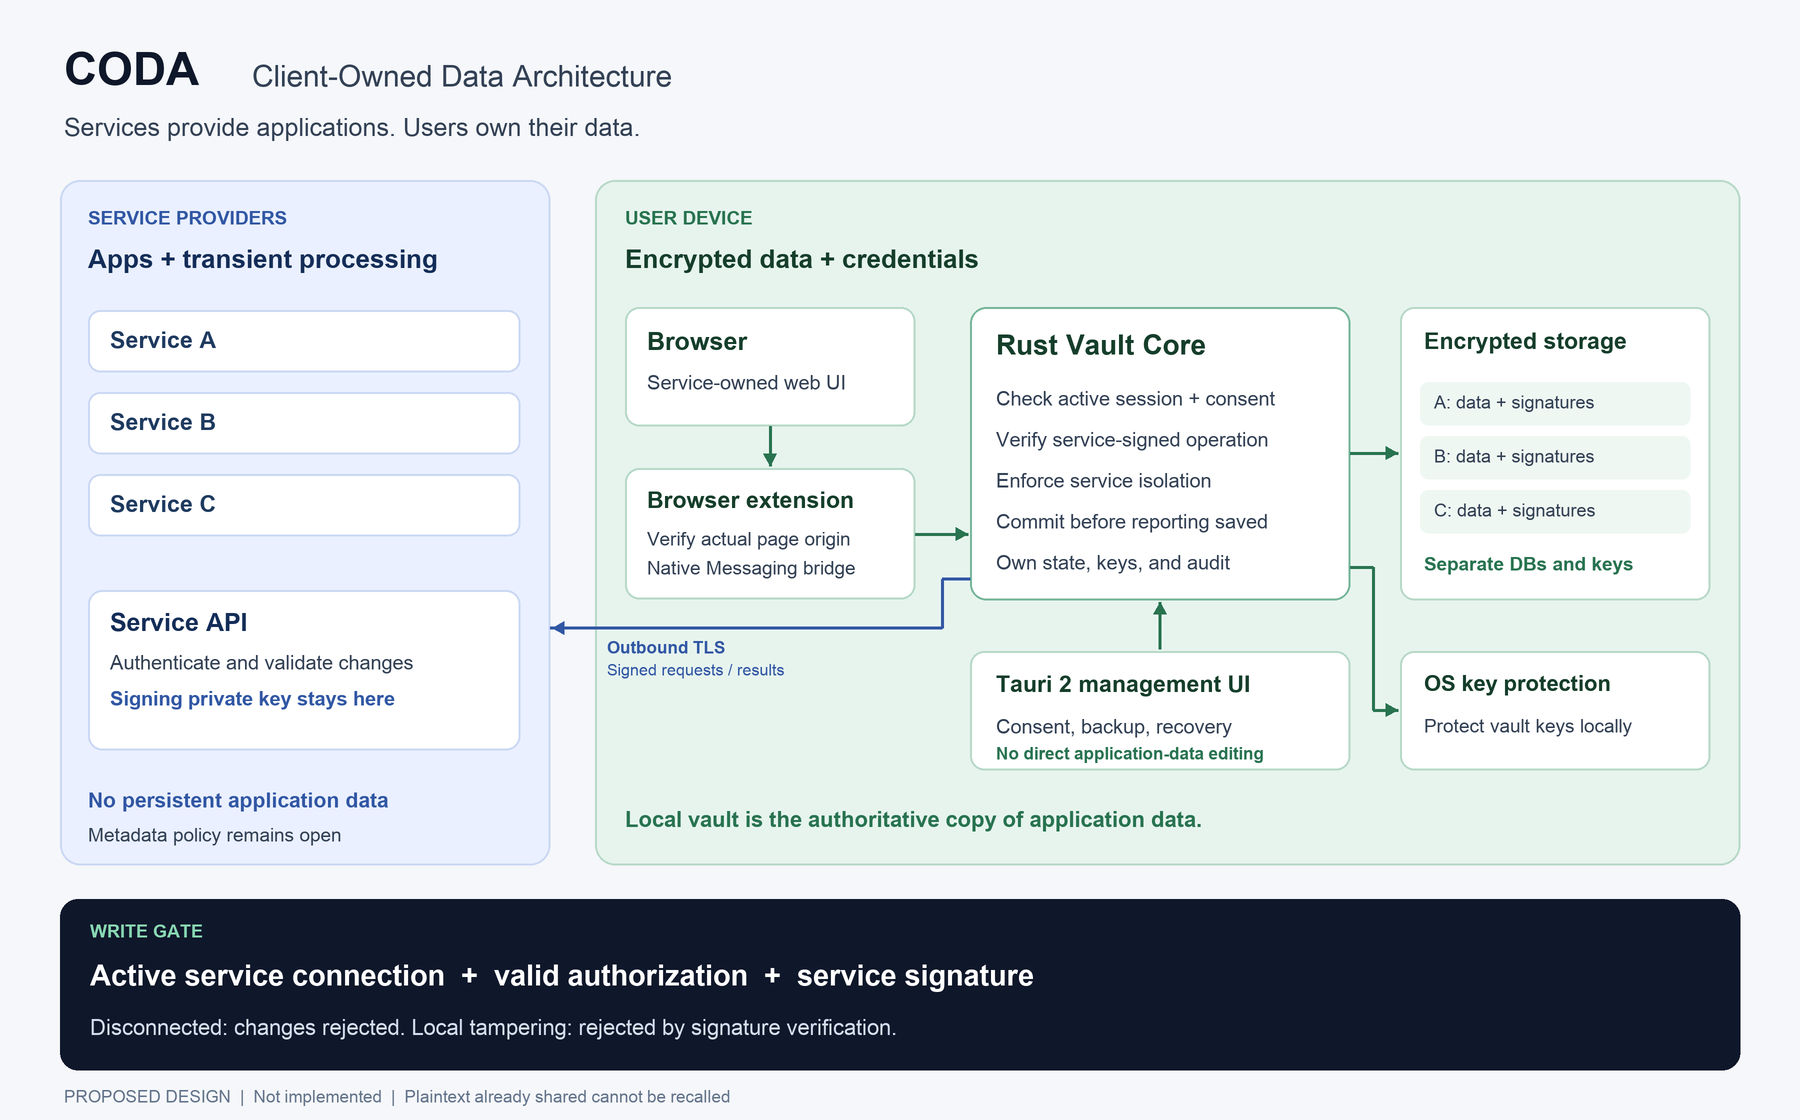
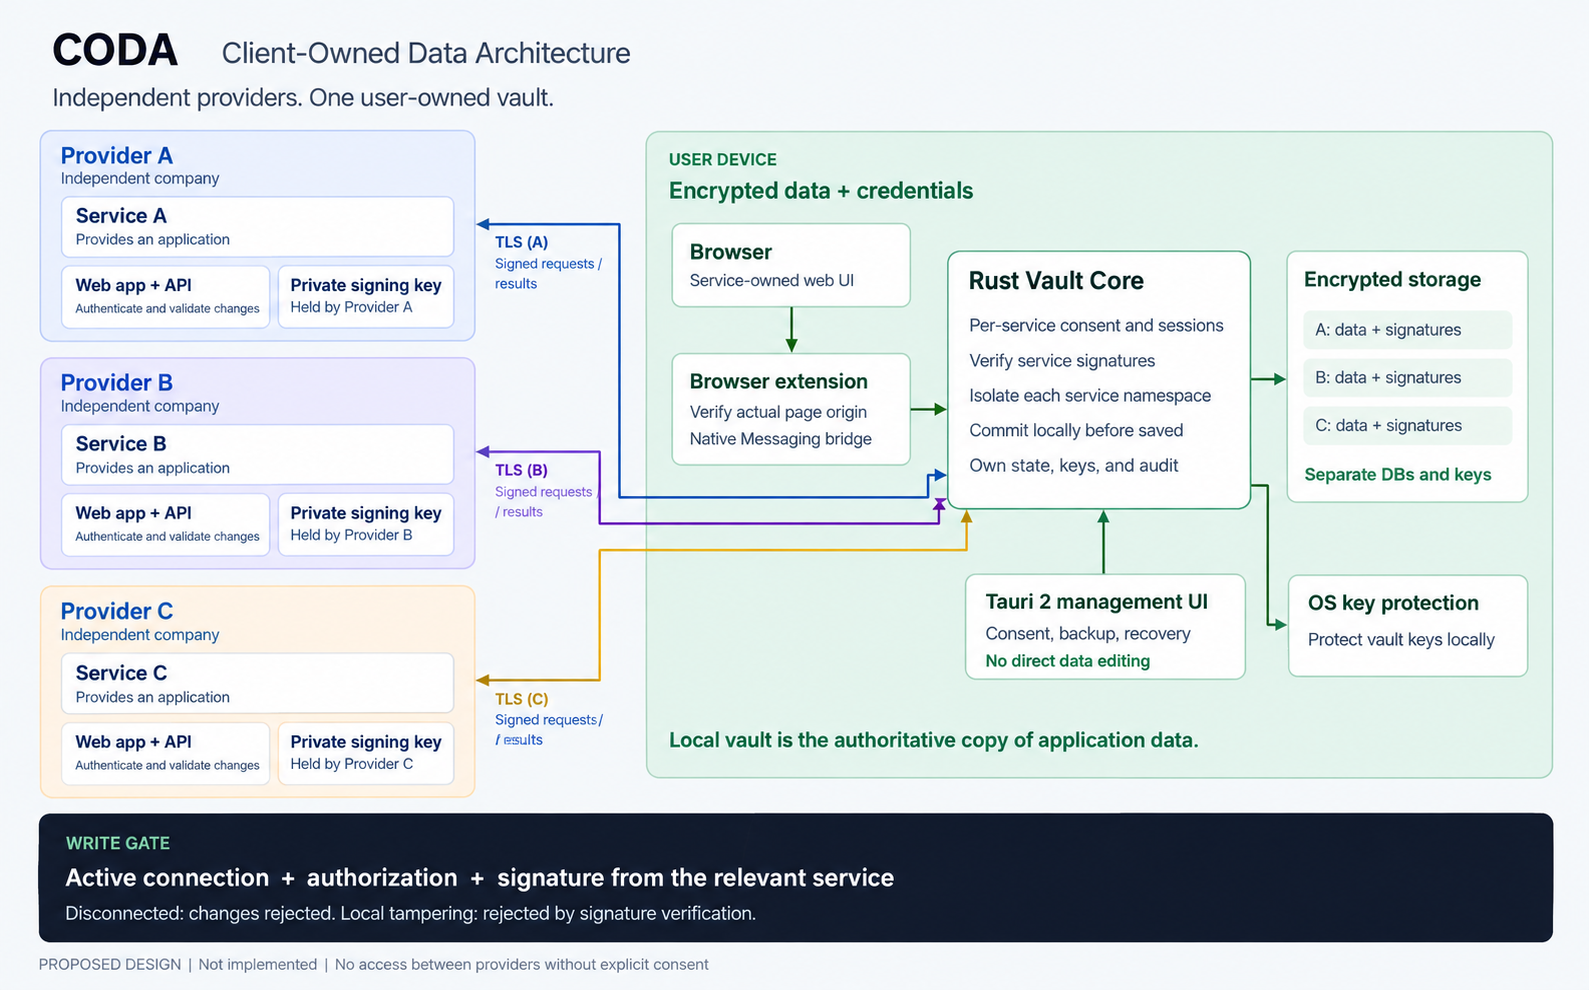
Initial commit

Changed region(s): [[0.0, 0.0303, 0.9868, 1.0]]

diff --git a/README.md b/README.md
@@ -1,21 +1,25 @@
 # Client-Owned Data Architecture
 
-**Services provide the applications. Users own their data and authentication credentials.**
+**Independent providers deliver the applications. Users own their data and authentication credentials.**
 
 Client-Owned Data Architecture (CODA) is a proposed shared authentication and data-access foundation for web services. A local encrypted vault holds the authoritative copy of each user's data. Services receive access only during an authenticated, explicitly authorized session.
+
+Service A, Service B, and Service C are operated by different companies. Each provider owns its web application, API, infrastructure, authentication configuration, and signing keys. They integrate independently with the same user-owned vault through a common protocol.
 
 **Project status:** Design stage. This repository currently contains specifications and an architecture diagram; the application, browser extension, and SDK are not implemented yet.
 
 ## Architecture
 
-![CODA architecture: service applications connect through a browser extension and Native Messaging to a local Rust vault. Only an active session and a service-signed operation can change the user's encrypted data.](docs/assets/coda-architecture.png)
+![CODA architecture: independent Providers A, B, and C each operate their own application, API, and signing key, and connect separately to a shared user-owned vault with isolated service databases.](docs/assets/coda-architecture.png)
 
 The diagram shows the proposed desktop architecture. The browser extension establishes the local bridge and verifies the actual page origin. The Vault Core opens an outbound TLS connection to the registered service API, authenticates the service, and enforces permissions on every operation. Services never receive database files or vault encryption keys.
+
+Each provider has a separate trust boundary and API connection. The shared foundation consists of the protocol, local vault, integration SDK, and service registration mechanism. It does not require a shared business backend, shared signing keys, or a shared user database across providers.
 
 ## Core principles
 
 - **Client-owned storage:** Profiles, documents, history, and settings remain in service-specific encrypted databases on the user's device.
-- **Shared foundation:** Independent services can integrate with the same vault protocol while keeping their data namespaces and encryption keys separate.
+- **Shared foundation:** Independently operated companies can integrate with the same vault protocol while keeping their APIs, signing keys, data namespaces, encryption keys, consent, and sessions separate.
 - **Connection-required changes:** Creating, updating, deleting, or importing application data requires an active connection to the relevant service and a service-signed operation.
 - **No direct local editing:** Unlocking the vault does not grant editing rights. The vault management UI, local tools, and browser extension cannot independently change application data.
 - **Session-limited access:** Logout, revocation, locking, detected disconnection, and expiration stop further authorized access.
@@ -33,6 +37,8 @@ The diagram shows the proposed desktop architecture. The browser extension estab
 
 Connecting to Service A does not grant access to Service B's data. Offline editing and deferred offline writes are outside the MVP.
 
+Provider A cannot issue updates, recovery approvals, or access grants for Provider B. Revoking one service's consent or session affects that service without automatically ending sessions with other providers. Future cross-provider sharing requires explicit user consent; existing service signatures cannot be transferred as another provider's approval.
+
 ## Data integrity and recovery
 
 The design combines encrypted storage with persistent service signatures and a signed manifest of each service's records. Both the Vault Core and the service API verify data integrity, so locally modified content cannot be accepted simply because a modified client submits it.
@@ -45,12 +51,12 @@ Key protection, backup recovery, and signed data verification have separate role
 
 | Component | Responsibility |
 | --- | --- |
-| Service web applications and APIs | Business UI, user authentication, input validation, signed changes, transient processing |
+| Independently operated service applications and APIs | Each provider's business UI, user authentication, validation, signed changes, and transient processing |
 | Browser extension and Native Messaging host | Verified origin context and a restricted bridge to the local core |
 | Rust Vault Core | Authoritative state, authorization, sessions, keys, integrity verification, persistence, and audit records |
 | Tauri 2 management UI | Consent, connection management, storage status, backup, and recovery; dockable and floating panels |
 | Service-specific SQLCipher databases | Encrypted local application data with independent keys |
-| Service registry | Trusted service identifiers, allowed origins, public keys, and revocation information |
+| Service registry | Provider identities, globally unique service identifiers, allowed origins, public keys, and scoped revocation information; no business-data access |
 
 All management windows use state owned by Rust. If intensive image processing or GPU rendering is introduced, it will run in Rust with wgpu; large frame buffers remain on the Rust/GPU side.
 
@@ -84,7 +90,7 @@ The labels below describe planned work. No application features are currently ma
 | --- | --- |
 | 🟠 [Next] | Finalize protocol contracts, signature formats, authentication metadata policy, and freshness checkpoints |
 | 🟠 [Next] | Implement the Rust core, encrypted service databases, and connection-required signed mutations |
-| 🔴 [Later] | Add session authorization, browser integration, and two independent demo services |
+| 🔴 [Later] | Add session authorization, browser integration, and demo services representing two independent providers with distinct origins and signing keys |
 | 🔴 [Later] | Build the Tauri management UI, localization, encrypted backups, and approved recovery |
 | ⭕ [Pending] | Validate hardware key protection, power-loss recovery, production non-retention, infrastructure, and an independent security audit |
 | 🔴 [Later] | Expand platform support, portability, synchronization, consent-based sharing, and interoperability |

diff --git a/docs/roadmap.md b/docs/roadmap.md
@@ -22,9 +22,9 @@
 
 - 🔴 [Later] 固定サービスレジストリ、サービス認証、同意、期限・lease・即時失効を実装する。
 - 🔴 [Later] Native Messaging Host、拡張、実Origin検証、サービスSDKを実装する。
-- 🔴 [Later] サービスA/BのデモでPasskeyから保存・切断までを通す。
+- 🔴 [Later] 異なる事業者を模したサービスA/Bを、別Origin・別API・別認証設定・別署名鍵で実装し、Passkeyから保存・切断までを通す。
 
-完了条件：T-02〜T-05、T-11が通り、サービス単独ではセッションを維持・拡張できない。
+完了条件：T-02〜T-05、T-11、T-18、T-19が通り、サービス単独ではセッションを維持・拡張できず、他事業者の権限や署名を利用できない。
 
 ## 段階3：管理UIと復旧を完成させる
 
@@ -41,7 +41,7 @@
 - ⭕ [Pending] XServer VPS Cloudの提供条件、ネットワーク、障害復旧、Worker連携を検証する。契約・検証環境の確保後に解除する。
 - ⭕ [Pending] 本番相当環境でT-08の非保存検査と第三者セキュリティ監査を行う。環境と監査体制の確保後に解除する。
 
-完了条件：対応を表明する環境でT-01〜T-17を記録し、未解消の重大な問題がなく、サービス接続を含む復旧手順を実演できる。保留項目を検証済みとして扱わない。
+完了条件：対応を表明する環境でT-01〜T-19を記録し、未解消の重大な問題がなく、サービス接続を含む復旧手順を実演できる。保留項目を検証済みとして扱わない。
 
 ## 段階5：対応範囲を広げる
 

diff --git a/docs/README.md b/docs/README.md
@@ -2,6 +2,8 @@
 
 Client-Owned Data Architecture（CODA）は、サービス事業者がアプリケーションと処理を提供し、ユーザーが認証情報とデータを所有する共通基盤です。
 
+サービスA・B・Cはそれぞれ独立した事業者が運営します。各事業者は自社のWebアプリ・API・認証設定・署名鍵を所有し、共通プロトコルを通じてユーザー端末のVaultへ個別に接続します。
+
 業務データの変更は、当該サービスへの有効な接続中に、サービスが署名した操作を通じてのみ許可します。ローカル管理画面やオフラインでの直接編集は禁止し、復旧データの利用再開にもサービスの承認を必要とします。
 
 | 文書 | 内容 |
